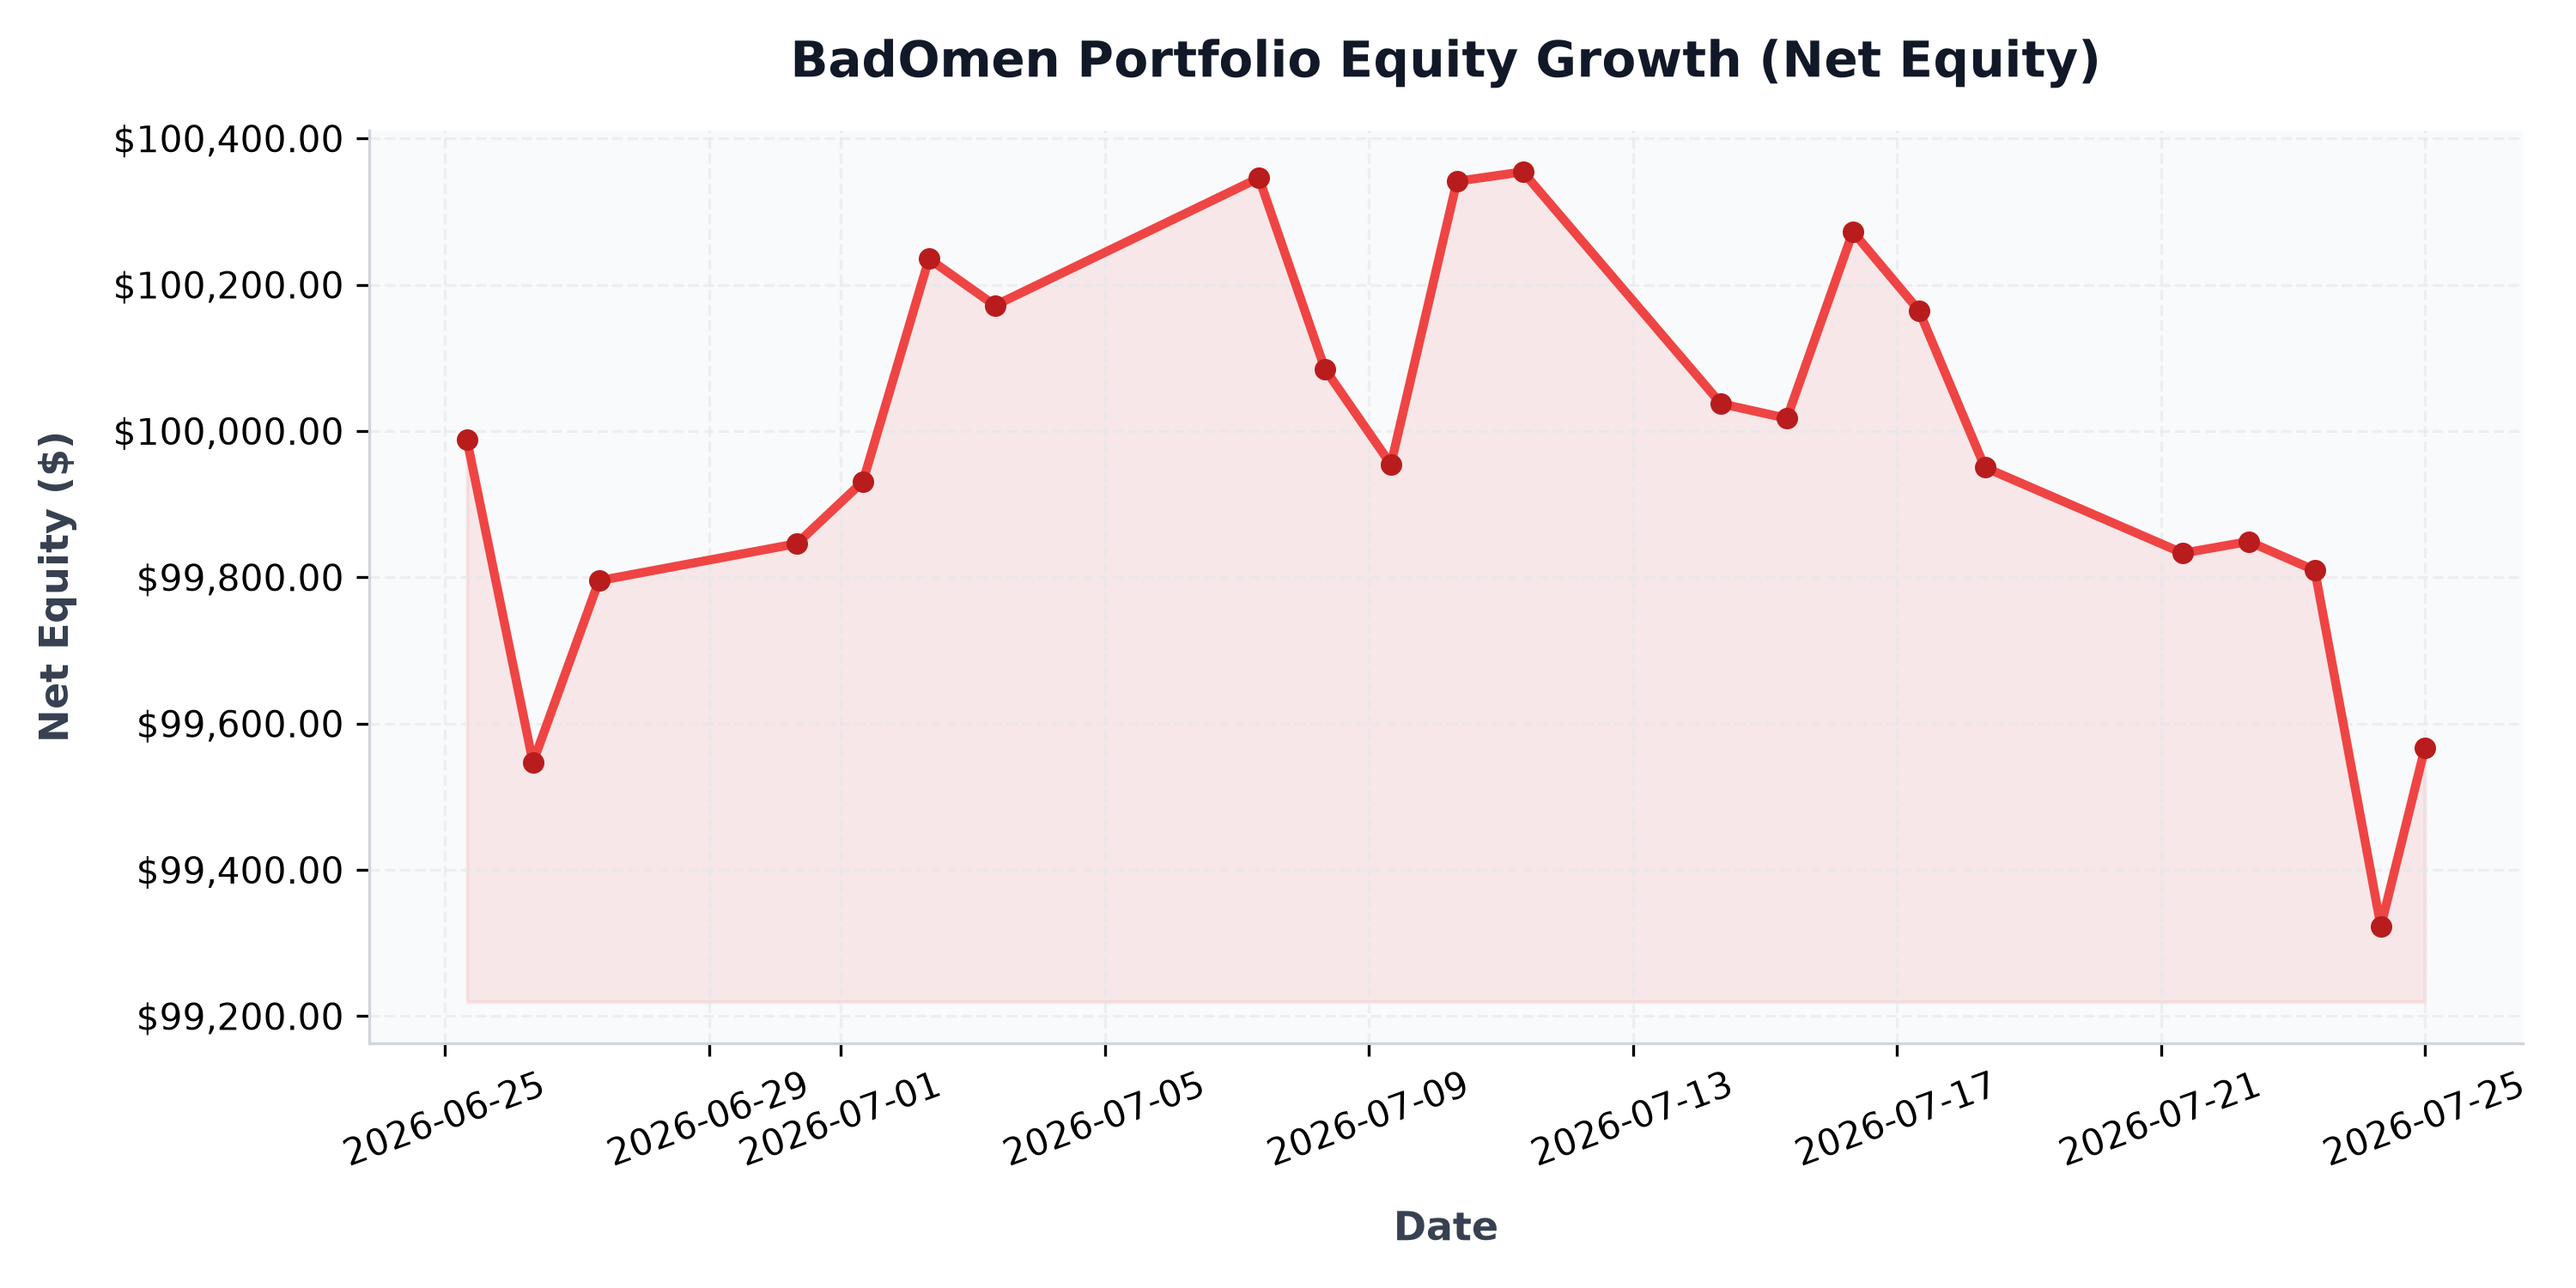
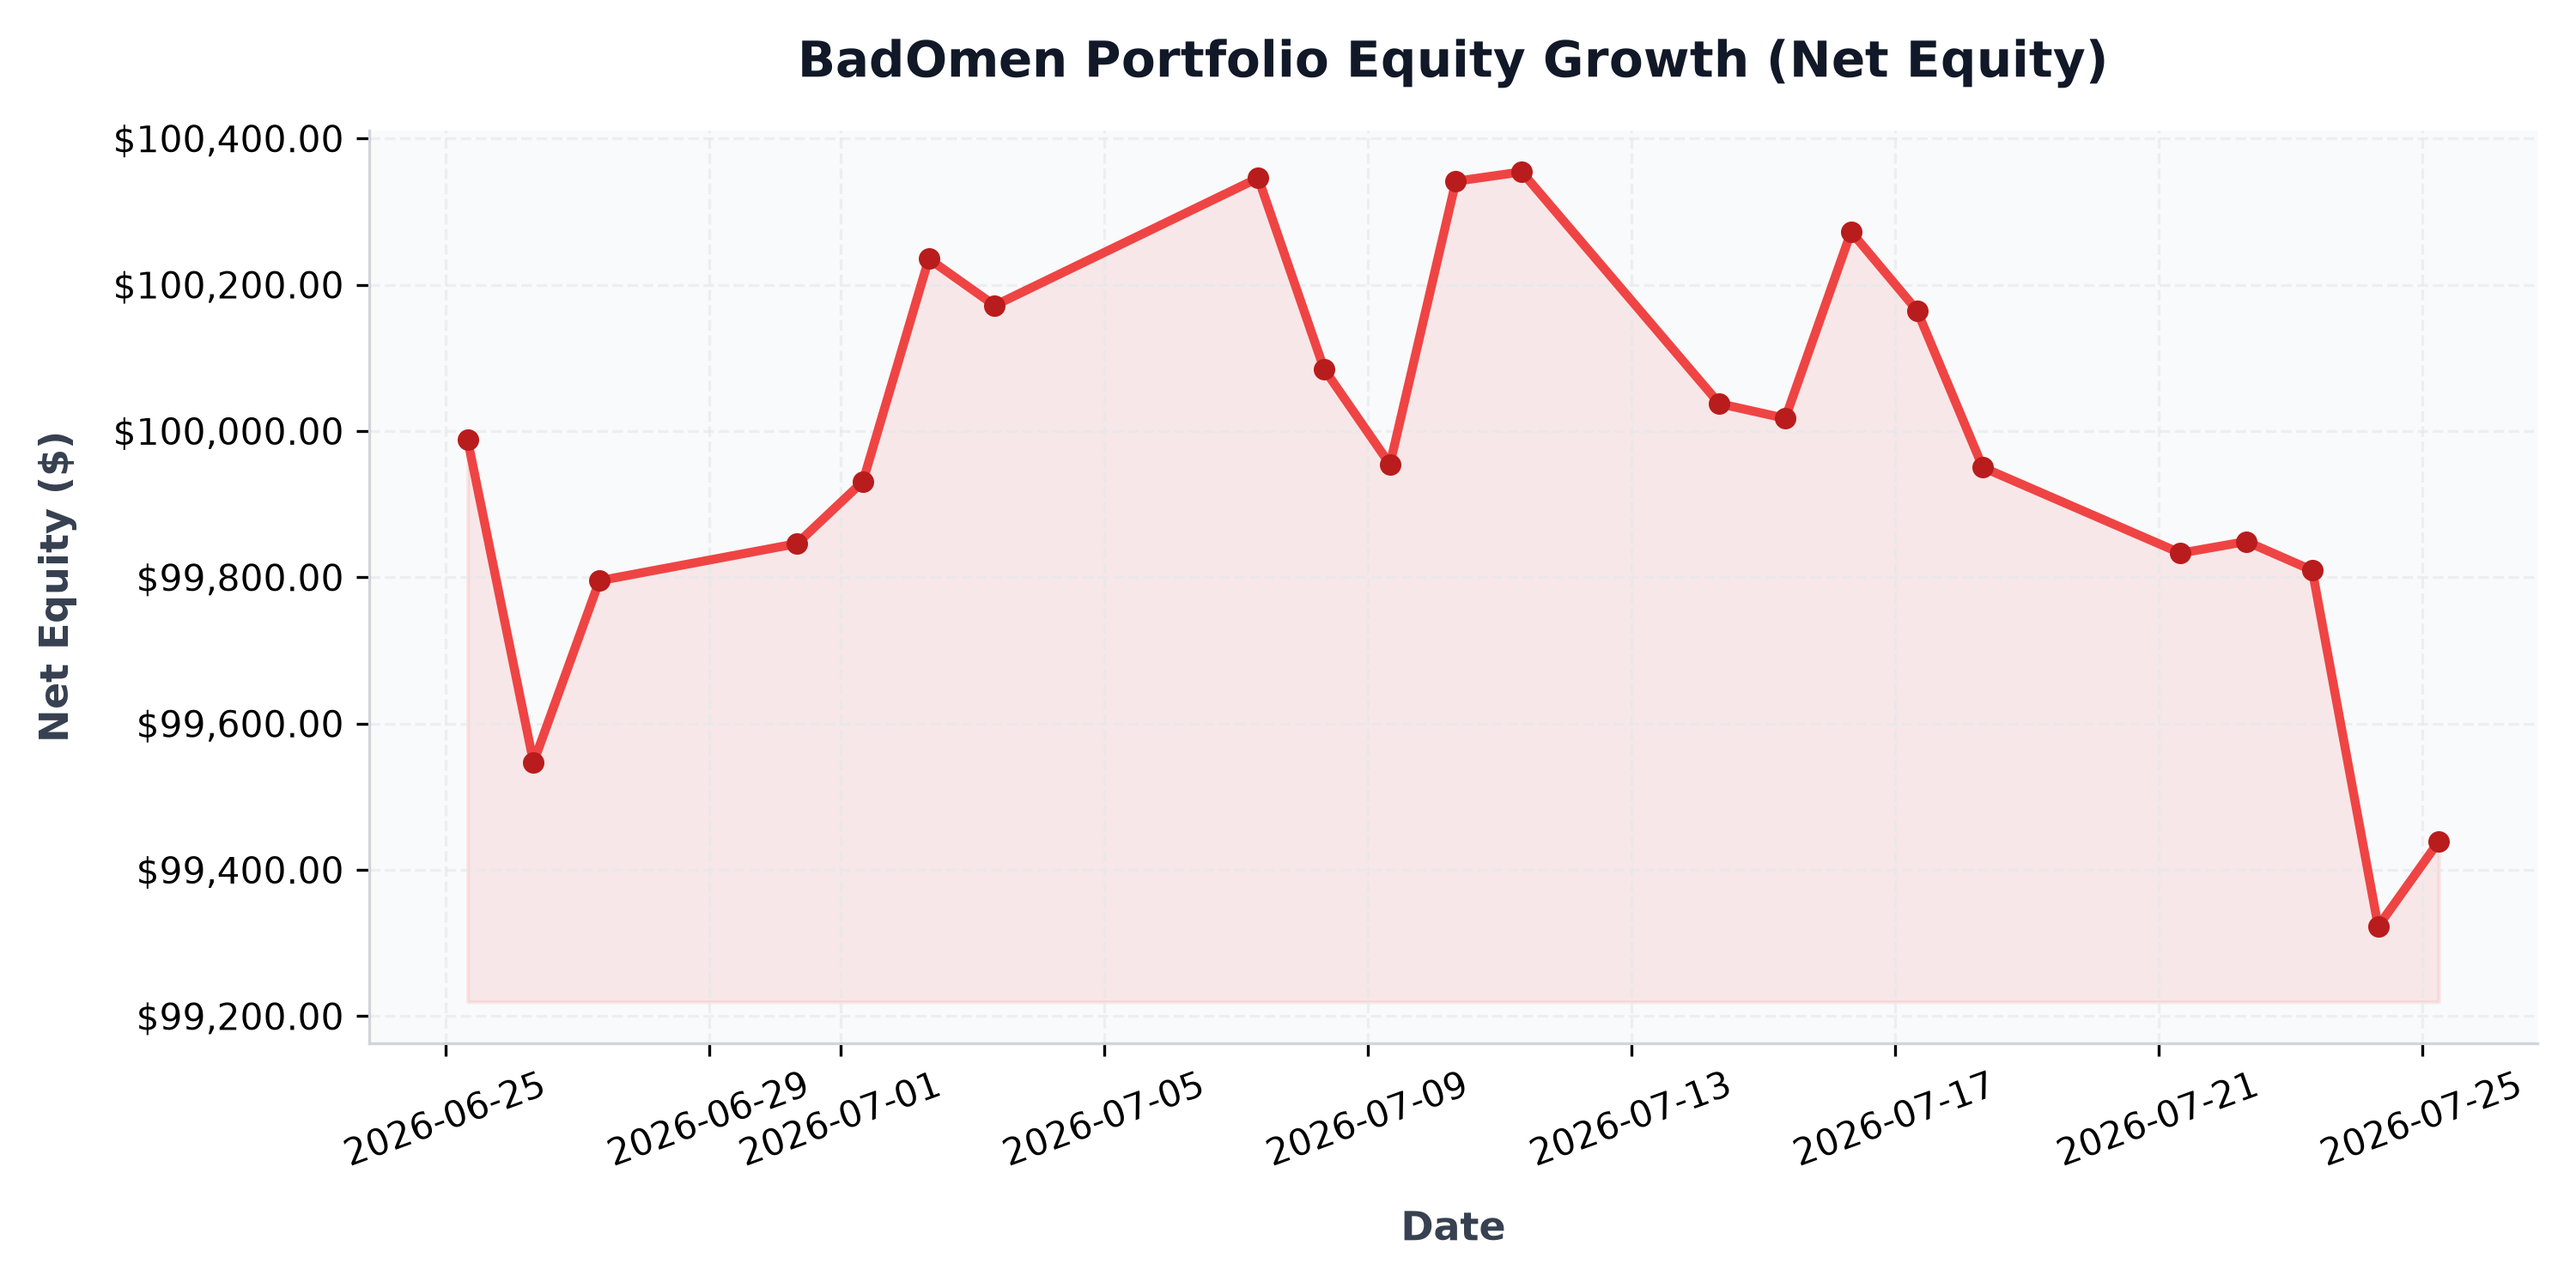
auto: daily portfolio status update - 2026-07-25 06:05:13

diff --git a/src/content/posts/portfolio-performance.md b/src/content/posts/portfolio-performance.md
@@ -1,6 +1,6 @@
 ---
 title: "BadOmen Algorithmic Portfolio Performance & PnL Report"
-pubDatetime: 2026-07-25T00:00:14.477024+08:00
+pubDatetime: 2026-07-25T06:05:13.660459+08:00
 description: "Live performance metrics, active holdings, and historic equity curve for the BadOmen automated paper trading portfolio."
 featured: true
 draft: false
@@ -16,11 +16,11 @@ Welcome to the live performance dashboard for **BadOmen**, our automated algorit
 ## 📊 Portfolio Summary
 | Performance Metric | Value | description |
 | :--- | :--- | :--- |
-| **Net Portfolio Equity** | **$99,566.46** | Total current liquidation value of cash and stock holdings |
-| **Total Unrealized P&L** | 🔴 **$-419.25** (-0.42%) | Total return of current open holdings |
+| **Net Portfolio Equity** | **$99,438.89** | Total current liquidation value of cash and stock holdings |
+| **Total Unrealized P&L** | 🔴 **$-551.59** (-0.55%) | Total return of current open holdings |
 | **Cash Balance** | $73,035.84 | Idle reserve currency available for limit orders |
-| **Buying Power** | $362,761.10 | Margin-backed buying power for entry allocations |
-| **Report Updated** | `2026-07-25 00:00:14 (SGT)` | Timestamp of daily execution and sync run |
+| **Buying Power** | $362,403.90 | Margin-backed buying power for entry allocations |
+| **Report Updated** | `2026-07-25 06:05:13 (SGT)` | Timestamp of daily execution and sync run |
 
 ## 📈 Net Equity Growth Curve
 The chart below illustrates the historical performance of the account starting from our baseline capital funding of $100,000.00.
@@ -35,30 +35,30 @@ The chart below illustrates the exposure of our currently held active positions 
 ## 💼 Current Position Holdings
 | Ticker | Industry | Shares Owned | Average Entry Cost | Current Price | Unrealized P&L | Return (%) |
 | :--- | :--- | :--- | :--- | :--- | :--- | :--- |
-| **AN** | Auto & Truck Dealerships | 5 | $188.51 | $209.94 | 🟢 +$107.14 | +11.37% |
-| **AVGO** | Semiconductors | 1 | $385.71 | $386.08 | 🟢 +$0.38 | +0.10% |
-| **CELH** | Beverages - Non-Alcoholic | 33 | $29.71 | $27.21 | 🔴 $-82.59 | -8.42% |
-| **DUOL** | Software - Application | 14 | $131.04 | $122.01 | 🔴 $-126.48 | -6.89% |
-| **FIS** | Information Technology Services | 23 | $41.79 | $41.29 | 🔴 $-11.50 | -1.20% |
-| **GDDY** | Software - Infrastructure | 12 | $76.21 | $92.17 | 🟢 +$191.52 | +20.94% |
-| **GDS** | Information Technology Services | 30 | $32.77 | $31.93 | 🔴 $-25.20 | -2.56% |
-| **GGAL** | Banks - Regional | 17 | $56.04 | $49.90 | 🔴 $-104.37 | -10.96% |
-| **GOOGL** | Internet Content & Information | 3 | $319.44 | $320.08 | 🟢 +$1.92 | +0.20% |
-| **GPI** | Auto & Truck Dealerships | 3 | $316.15 | $333.44 | 🟢 +$51.88 | +5.47% |
-| **ITRI** | Scientific & Technical Instruments | 12 | $81.80 | $84.69 | 🟢 +$34.68 | +3.53% |
-| **KBR** | Engineering & Construction | 27 | $36.23 | $37.36 | 🟢 +$30.43 | +3.11% |
-| **META** | Internet Content & Information | 1 | $568.17 | $605.66 | 🟢 +$37.49 | +6.60% |
-| **NESR** | Oil & Gas Equipment & Services | 34 | $28.74 | $28.09 | 🔴 $-22.10 | -2.26% |
-| **NU** | Banks - Regional | 85 | $11.60 | $14.28 | 🟢 +$227.83 | +23.11% |
-| **ON** | Semiconductors | 10 | $90.45 | $88.04 | 🔴 $-24.15 | -2.67% |
-| **ORCL** | Software - Infrastructure | 5 | $181.95 | $118.01 | 🔴 $-319.70 | -35.14% |
-| **PATH** | Software - Infrastructure | 187 | $10.42 | $10.61 | 🟢 +$35.45 | +1.82% |
-| **PYPL** | Credit Services | 17 | $56.05 | $55.94 | 🔴 $-1.87 | -0.20% |
-| **QCOM** | Semiconductors | 15 | $193.68 | $168.58 | 🔴 $-376.57 | -12.96% |
-| **SMCI** | Computer Hardware | 33 | $29.25 | $30.92 | 🟢 +$55.11 | +5.71% |
-| **T** | Telecom Services | 47 | $20.85 | $23.75 | 🟢 +$136.06 | +13.88% |
-| **WEN** | Restaurants | 257 | $8.02 | $7.21 | 🔴 $-207.84 | -10.08% |
-| **ZG** | Internet Content & Information | 31 | $31.35 | $30.49 | 🔴 $-26.76 | -2.75% |
+| **AN** | Auto & Truck Dealerships | 5 | $188.51 | $208.18 | 🟢 +$98.36 | +10.44% |
+| **AVGO** | Semiconductors | 1 | $385.71 | $383.00 | 🔴 $-2.71 | -0.70% |
+| **CELH** | Beverages - Non-Alcoholic | 33 | $29.71 | $27.11 | 🔴 $-85.89 | -8.76% |
+| **DUOL** | Software - Application | 14 | $131.04 | $122.24 | 🔴 $-123.26 | -6.72% |
+| **FIS** | Information Technology Services | 23 | $41.79 | $41.51 | 🔴 $-6.44 | -0.67% |
+| **GDDY** | Software - Infrastructure | 12 | $76.21 | $93.16 | 🟢 +$203.40 | +22.24% |
+| **GDS** | Information Technology Services | 30 | $32.77 | $31.63 | 🔴 $-34.20 | -3.48% |
+| **GGAL** | Banks - Regional | 17 | $56.04 | $49.30 | 🔴 $-114.57 | -12.03% |
+| **GOOGL** | Internet Content & Information | 3 | $319.44 | $320.00 | 🟢 +$1.68 | +0.18% |
+| **GPI** | Auto & Truck Dealerships | 3 | $316.15 | $330.87 | 🟢 +$44.16 | +4.66% |
+| **ITRI** | Scientific & Technical Instruments | 12 | $81.80 | $84.22 | 🟢 +$29.04 | +2.96% |
+| **KBR** | Engineering & Construction | 27 | $36.23 | $36.93 | 🟢 +$18.82 | +1.92% |
+| **META** | Internet Content & Information | 1 | $568.17 | $595.21 | 🟢 +$27.04 | +4.76% |
+| **NESR** | Oil & Gas Equipment & Services | 34 | $28.74 | $27.73 | 🔴 $-34.41 | -3.52% |
+| **NU** | Banks - Regional | 85 | $11.60 | $14.07 | 🟢 +$210.07 | +21.31% |
+| **ON** | Semiconductors | 10 | $90.45 | $87.41 | 🔴 $-30.45 | -3.37% |
+| **ORCL** | Software - Infrastructure | 5 | $181.95 | $114.87 | 🔴 $-335.40 | -36.87% |
+| **PATH** | Software - Infrastructure | 187 | $10.42 | $10.83 | 🟢 +$76.61 | +3.93% |
+| **PYPL** | Credit Services | 17 | $56.05 | $56.00 | 🔴 $-0.85 | -0.09% |
+| **QCOM** | Semiconductors | 15 | $193.68 | $167.00 | 🔴 $-400.27 | -13.78% |
+| **SMCI** | Computer Hardware | 33 | $29.25 | $30.11 | 🟢 +$28.38 | +2.94% |
+| **T** | Telecom Services | 47 | $20.85 | $24.03 | 🟢 +$149.46 | +15.25% |
+| **WEN** | Restaurants | 257 | $8.02 | $7.03 | 🔴 $-255.49 | -12.39% |
+| **ZG** | Internet Content & Information | 31 | $31.35 | $30.88 | 🔴 $-14.67 | -1.51% |
 
 ## 🔴 Recent Realized Trades
 | Ticker | Shares Sold | Entry Price | Exit Price | Strategy Trigger | Realized Return | Exit Date |
